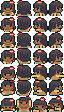
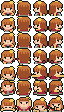
Leyendas de Iberia: menos tinajas, sin Papemímico sin equipo e Isabel recoloreada
- Una tinaja por zona como mucho; fuera los barriles de adorno del exterior
  de Santa Fe, que se confundían con ellas.
- El Papemímico no sale sin ninguna criatura en pie (rompía el juego), y
  los entrenadores no retan en ese caso. Con pruebas.
- Isabel la Católica, con piel blanca y pelo rubio rojizo, como en las
  crónicas de su tiempo.

Claude-Session: https://claude.ai/code/session_019QNp893dp9bmLNXSwV3RNY

diff --git a/leyendas-de-iberia/src/data/zonas/capitulo1.ts b/leyendas-de-iberia/src/data/zonas/capitulo1.ts
@@ -25,7 +25,7 @@ const SANTA_FE: Zona = {
     'M,TTTTTT,,,..,,,TTTTTT,M',
     'M,MMMMMM,,,..,,,MMMMMM,M',
     'M,,,,,,,,,,..,,,,,,,,,,M',
-    'M#,,,,,,K,,..,,K,,,,,,#M',
+    'M#,,,,,,,,,..,,,,,,,,,#M',
     'M,,,,,,,,,,..,,,,,,,,,,M',
     'MMMMMMMMMMMMMMMMMMMMMMMM',
   ],
@@ -143,11 +143,8 @@ const SANTA_FE: Zona = {
     { x: 4, y: 5, texto: ['Mesón de Santa Fe.', 'Cama, comida y descanso para tus criaturas.'] },
   ],
   ocultos: [{ id: 'azabache', x: 21, y: 11, objeto: 'azabache' }],
-  recipientes: [
-    { id: 'meson', x: 7, y: 5 },
-    { id: 'plaza', x: 3, y: 10 },
-    { id: 'huerto', x: 20, y: 16 },
-  ],
+  // Una tinaja por zona, como mucho: el autor vio demasiadas (2026-10-25).
+  recipientes: [{ id: 'huerto', x: 20, y: 16 }],
   alEntrar: decir(
     undefined,
     'Invierno de 1491. Los Reyes Católicos asedian Granada, el último reino nazarí de la Península.',
@@ -354,10 +351,7 @@ const VEGA: Zona = {
     { id: 'endrina', x: 1, y: 20, objeto: 'endrina' },
     { id: 'ruda', x: 13, y: 7, objeto: 'ruda' },
   ],
-  recipientes: [
-    { id: 'puente', x: 8, y: 5 },
-    { id: 'acequia', x: 6, y: 18 },
-  ],
+  recipientes: [{ id: 'acequia', x: 6, y: 18 }],
 };
 
 const ALHAMBRA: Zona = {

diff --git a/leyendas-de-iberia/tests/historia.test.ts b/leyendas-de-iberia/tests/historia.test.ts
@@ -112,6 +112,22 @@ describe('recipientes', () => {
     expect(r.tipo).toBe('nada');
   });
 
+  it('sin ninguna criatura en pie no sale el Papemímico (no habría con quién luchar)', () => {
+    const p = nuevaPartida('X', 'sin equipo', INICIO);
+    for (let i = 0; i < 300; i++) {
+      const r = registrarRecipiente(p, 'santa_fe', `t${i}`, { prob: PROB_RECIPIENTE, objetos: OBJETOS_RECIPIENTE.santa_fe }, DATOS);
+      expect(r.tipo).not.toBe('mimico');
+    }
+    const soloMimico = registrarRecipiente(p, 'santa_fe', 'u', { prob: { objeto: 0, nada: 0, mimico: 100 }, objetos: [] }, DATOS);
+    expect(soloMimico.tipo).toBe('nada');
+    p.equipo = [{ ...crearCriatura(DATOS, 'cangrejo', 5, crearRng(1)), vida: 0 }];
+    expect(registrarRecipiente(p, 'santa_fe', 'v', { prob: { objeto: 0, nada: 0, mimico: 100 }, objetos: [] }, DATOS).tipo).toBe('nada');
+  });
+
+  it('como mucho una tinaja por zona', () => {
+    for (const z of Object.values(ZONAS)) expect(z.recipientes?.length ?? 0, z.id).toBeLessThanOrEqual(1);
+  });
+
   it('el Papemímico sale por encima del nivel del equipo', () => {
     const p = nuevaPartida('X', 3, INICIO);
     p.equipo = [crearCriatura(DATOS, 'cangrejo', 12, crearRng(1))];

diff --git a/leyendas-de-iberia/src/core/recipientes.ts b/leyendas-de-iberia/src/core/recipientes.ts
@@ -42,9 +42,13 @@ export function registrarRecipiente(
   if (revisado(p, zona, id)) return { tipo: 'nada' };
   p.revisados.push(claveRecipiente(zona, id));
   const tipos = ['objeto', 'nada', 'mimico'] as const;
-  // Sin tabla de objetos en la zona, la parte de «objeto» no puede salir.
+  // Sin tabla de objetos en la zona, la parte de «objeto» no puede salir. Sin ninguna criatura
+  // en pie, tampoco el Papemímico: no habría con quién luchar.
   const pesoObjeto = op.objetos.length > 0 ? op.prob.objeto : 0;
-  const tipo = tipos[elegirPonderado(p.rng, [pesoObjeto, op.prob.nada, op.prob.mimico])];
+  const pesoMimico = p.equipo.some((c) => c.vida > 0) ? op.prob.mimico : 0;
+  const pesos = [pesoObjeto, op.prob.nada, pesoMimico];
+  if (pesos.every((w) => w === 0)) return { tipo: 'nada' };
+  const tipo = tipos[elegirPonderado(p.rng, pesos)];
   if (tipo === 'nada') return { tipo: 'nada' };
   if (tipo === 'mimico') {
     const criatura = crearCriatura(datos, ESPECIE_MIMICO, nivelMimico(p, op.encuentros), p.rng, { valia: 10 });

diff --git a/leyendas-de-iberia/src/escenas/Mundo.ts b/leyendas-de-iberia/src/escenas/Mundo.ts
@@ -595,6 +595,12 @@ export class Mundo extends Phaser.Scene {
       p.banderas[`vencido:${def.id}`] = true;
       return true;
     }
+    // Sin ninguna criatura en pie no hay combate posible (antes de elegir compañera, por ejemplo).
+    if (!equipoEnPie(p)) {
+      await this.ui.decir('Vuelve cuando tengas una criatura con ganas de pelear.', def.nombre);
+      this.ui.cerrarDialogo();
+      return false;
+    }
     for (const t of def.antes) await this.ui.decir(t, def.nombre);
     this.ui.cerrarDialogo();
     const resultado = await this.combatir(equipoEntrenador(def, DATOS), false, def);

diff --git a/leyendas-de-iberia/docs/GDD.md b/leyendas-de-iberia/docs/GDD.md
@@ -455,3 +455,10 @@ con la Guerra Civil.
   - Combate: movimientos a la izquierda (70 %) y, en un 2 × 2 a la derecha, la última tésera
     usada, la mochila, el equipo y huir.
   - Quitado el fondo blanco atrapado en el drago, el Papemímico, el Trasgorn y el pelotero.
+- **2026-10-25 (4).** Correcciones del autor.
+  - Una tinaja por zona como mucho, y fuera los barriles de adorno del exterior de Santa Fe, que
+    se confundían con ellas.
+  - El Papemímico no sale si no tienes ninguna criatura en pie (antes rompía el juego), y los
+    entrenadores no te retan en ese caso.
+  - Isabel la Católica, recoloreada: piel blanca y pelo rubio rojizo, como la describen las
+    crónicas de su tiempo (Hernando del Pulgar).

diff --git a/leyendas-de-iberia/src/assets/LEEME.md b/leyendas-de-iberia/src/assets/LEEME.md
@@ -28,7 +28,7 @@ Personajes (`Actor/Character/<nombre>/SpriteSheet.png`):
 | Archivo | Original | Lo usa |
 | --- | --- | --- |
 | `muchacho.png` | Boy | El jugador |
-| `dama.png` | Princess | Isabel la Católica |
+| `dama.png` | Princess, con la piel, el pelo y el vestido recoloreados | Isabel la Católica: blanca y de pelo rubio rojizo, como la describen las crónicas de su tiempo |
 | `noble.png` | Noble | Fernando el Católico |
 | `caballero.png` | Knight | El Gran Capitán |
 | `explorador.png` | Inspector | Colón |
